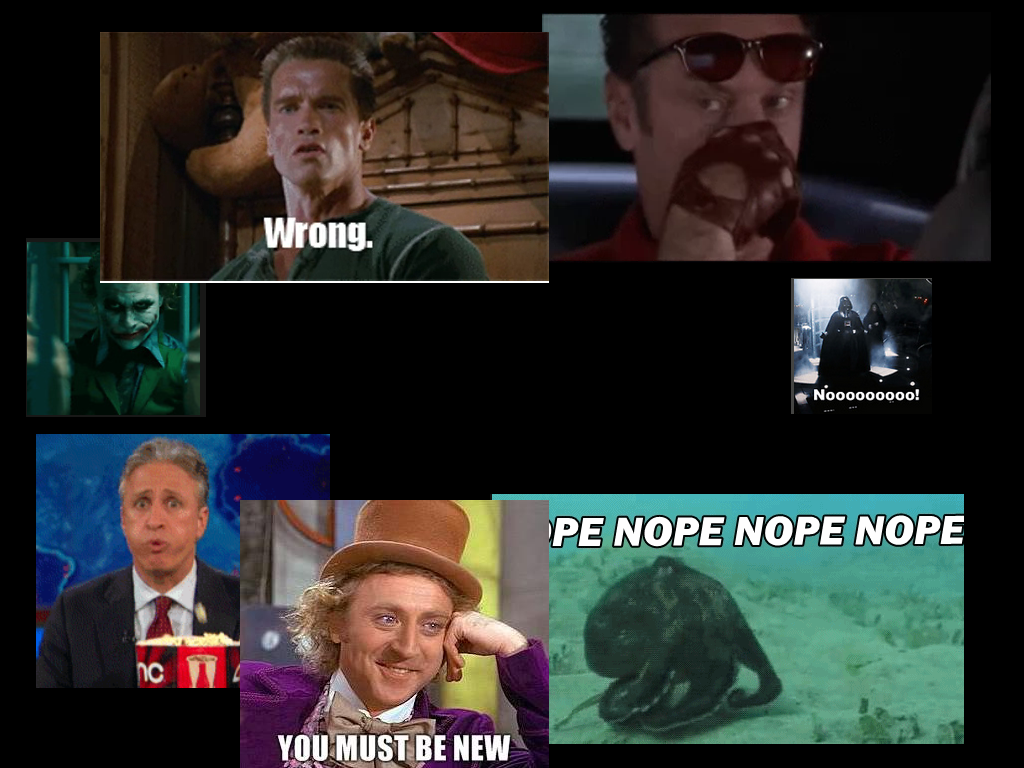
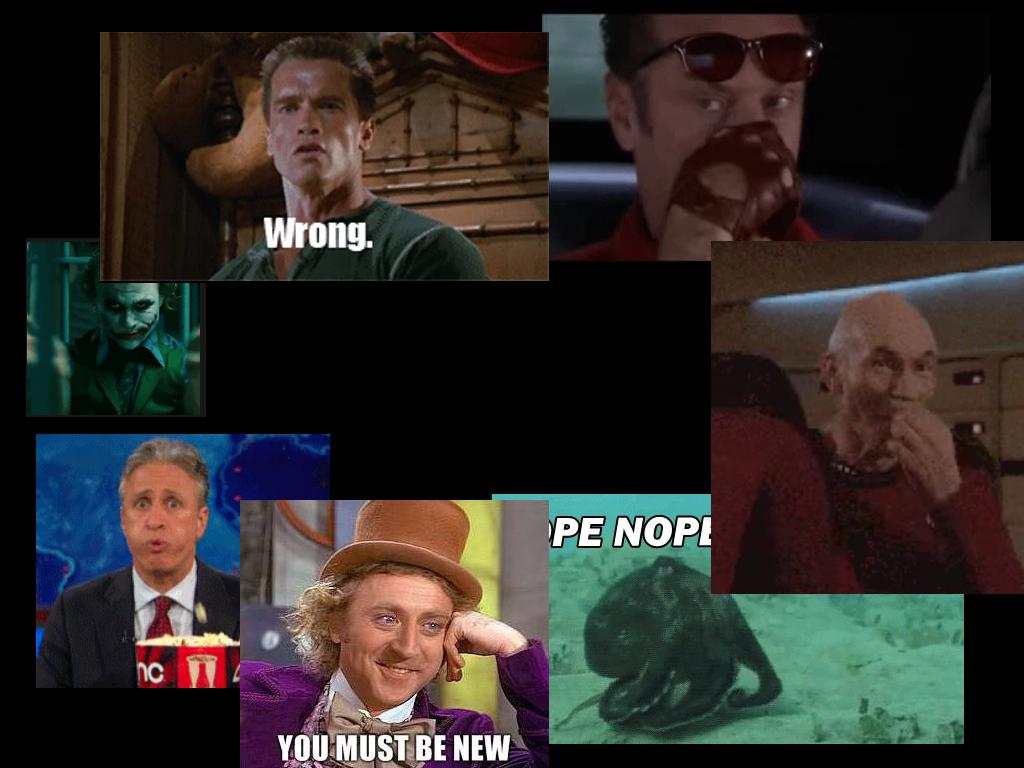
2016-02: replaced stress image

Changed region(s): [[0.6875, 0.3125, 1.0, 0.7812]]

diff --git a/2016-02-configmgmtcamp-stop-sharing-war-stories/stop-sharing-war-stories.html b/2016-02-configmgmtcamp-stop-sharing-war-stories/stop-sharing-war-stories.html
@@ -63,6 +63,7 @@
 				</section>
 
 				<section data-background="trench.jpg">
+					<p>This is some text.</p>
 				</section>
 
 				<section>
@@ -90,6 +91,16 @@
 					<h2>darker depictions</h2>
 					<p>are oddly compelling</h2>
 					</div>
+				</section>
+
+				<section>
+					<!-- TODO: anything else! -->
+					<h3>Mainstream Media</h3>
+					<p>A different story altogether</p>
+				</section>
+
+				<section>
+					
 				</section>
 
 				<section>
